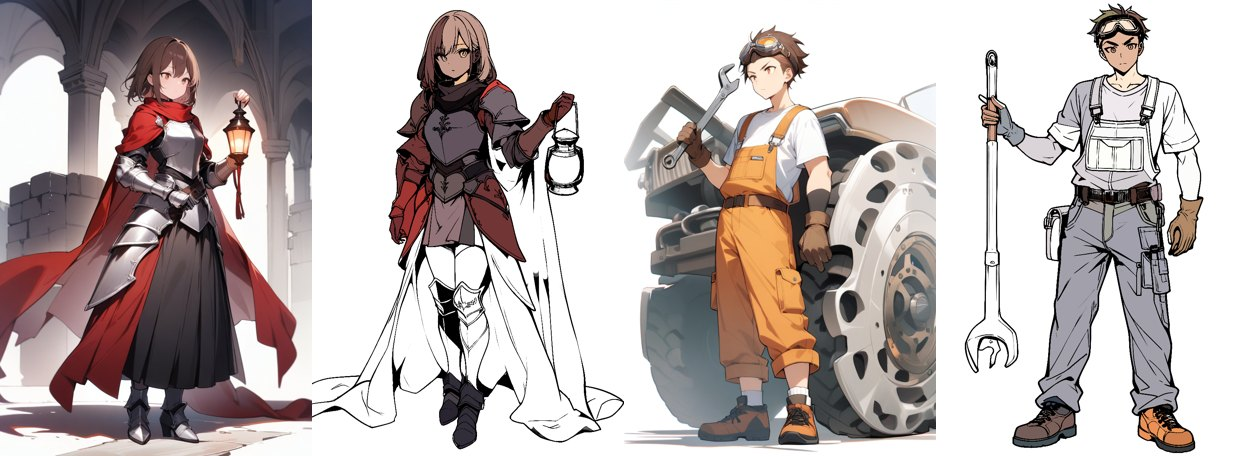
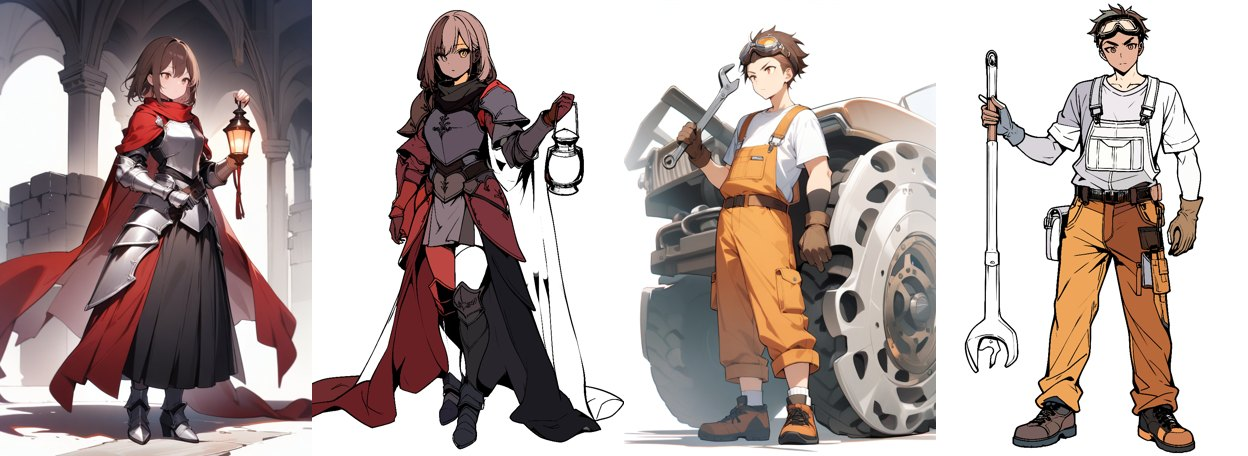
色を置くとき、部位の食い違いを仲間の部位で対応させ、実際にある色を取る
Claude-Session: https://claude.ai/code/session_01Raj3ZHMvaTdhHcmmGwa9QK

Changed region(s): [[0.25, 0.5219, 0.5, 0.9825], [0.8125, 0.3991, 0.9688, 0.9518], [0.375, 0.2456, 0.4062, 0.2763]]

diff --git a/tools/gen/lineart.py b/tools/gen/lineart.py
@@ -79,6 +79,13 @@ def flat_fill(line: np.ndarray, reference: np.ndarray, close: int = 1, min_area:
     return (out.astype(float) * lines).astype(np.uint8), int(n)
 
 
+def middle_color(pixels: np.ndarray) -> np.ndarray:
+    """画素の中で、明るさが真ん中の画素の色。赤・緑・青を別々に真ん中を取ると、白と橙が混ざった所で
+    どちらでもない灰色になった（技師の作業着）。実際にある色から選ぶ"""
+    lum = pixels.astype(float) @ np.array([0.299, 0.587, 0.114])
+    return pixels[np.argsort(lum)[len(lum) // 2]]
+
+
 def color_by_parts(line: np.ndarray, line_parts: np.ndarray, reference: np.ndarray, ref_parts: np.ndarray,
                    close: int = 1, min_area: int = 30, window: float = 0.06) -> np.ndarray:
     """線で閉じた面ごとに、参考の絵の「同じ部位の、同じあたり」の色を塗る。
@@ -95,14 +102,32 @@ def color_by_parts(line: np.ndarray, line_parts: np.ndarray, reference: np.ndarr
     H, W = line.shape
     yy, xx = np.mgrid[0:H, 0:W]
     out = np.full((H, W, 3), 255, np.uint8)
-    boxes, whole = {}, {}
+    # 同じ物でも、線画と参考で別の部位に分けられることがある（技師の作業着が線画では「ズボン」、参考では「ワンピース」。
+    # 参考では右の靴しか取れない）。同じ部位が参考に無いときは、仲間の部位（服どうし、左右どうし）から色を取る
+    groups = [(4, 5, 6, 7), (9, 10), (12, 13), (14, 15)]
+    boxes, whole, refmask = {}, {}, {}
     for k in np.unique(line_parts):
-        if k == 0 or not (ref_parts == k).any():
+        if k == 0:
+            continue
+        rm = ref_parts == k
+        # 参考に数画素だけある部位も無いと数える（技師の参考に「ズボン」が 204 画素だけあり、その灰色で作業着を塗った）
+        if rm.sum() <= 500:
+            g = next((g for g in groups if k in g), (k,))
+            # 仲間のうち、線画で使われていない部位を優先する（線画の「ズボン」と参考の「ワンピース」を組にする）。
+            # 仲間をまとめて使うと、白いシャツと橙の作業着が混ざった
+            # 線画に数画素だけある部位は使われていないと数える（技師の線画にワンピースが数画素あり、組が作れなかった）
+            spare = [j for j in g if (ref_parts == j).sum() > 500 and (line_parts == j).sum() <= 500]
+            if spare:
+                rm = ref_parts == max(spare, key=lambda j: (ref_parts == j).sum())
+            else:
+                rm = np.isin(ref_parts, g)
+        if not rm.any():
             continue
         ys, xs = np.nonzero(line_parts == k)
-        ry, rx = np.nonzero(ref_parts == k)
+        ry, rx = np.nonzero(rm)
         boxes[k] = ((ys.min(), ys.max(), xs.min(), xs.max()), (ry.min(), ry.max(), rx.min(), rx.max()))
-        whole[k] = np.median(reference[ref_parts == k], 0)
+        whole[k] = middle_color(reference[rm])
+        refmask[k] = rm
     objs = nd.find_objects(lab)
     for r in range(1, n + 1):
         if size[r] < min_area or objs[r - 1] is None:
@@ -119,8 +144,8 @@ def color_by_parts(line: np.ndarray, line_parts: np.ndarray, reference: np.ndarr
         tx = X0 + (cx - x0) / max(x1 - x0, 1) * (X1 - X0)
         ry, rx = max(int((Y1 - Y0) * window), 3), max(int((X1 - X0) * window), 3)
         a0, a1, b0, b1 = int(max(ty - ry, 0)), int(min(ty + ry + 1, H)), int(max(tx - rx, 0)), int(min(tx + rx + 1, W))
-        pick = ref_parts[a0:a1, b0:b1] == k
-        col = np.median(reference[a0:a1, b0:b1][pick], 0) if pick.sum() >= 5 else whole[k]
+        pick = refmask[k][a0:a1, b0:b1]
+        col = middle_color(reference[a0:a1, b0:b1][pick]) if pick.sum() >= 5 else whole[k]
         out[sl][m] = col
     filled = (lab > 0) & (size[lab] >= min_area)
     idx = nd.distance_transform_edt(~filled, return_distances=False, return_indices=True)

diff --git a/tests/test_lineart.py b/tests/test_lineart.py
@@ -77,5 +77,24 @@ class FlatFill(unittest.TestCase):
         self.assertEqual(tuple(out[50, 50]), (250, 220, 200))  # 顔の面には顔の色
 
 
+    def test_partner_part_when_missing_in_reference(self):
+        line = np.full((60, 60), 255, np.uint8)
+        line[30, :] = 0
+        line_parts = np.zeros((60, 60), np.uint8)
+        line_parts[:30] = 4                              # 線画: 上は上着
+        line_parts[31:] = 6                              # 下はズボン
+        ref = np.zeros((60, 60, 3), np.uint8)
+        ref_parts = np.zeros((60, 60), np.uint8)
+        ref[:30] = (240, 240, 240); ref_parts[:30] = 4   # 参考: 上着は白
+        ref[30:] = (220, 140, 70); ref_parts[30:] = 7    # 作業着は「ワンピース」に分けられ、ズボンが無い
+        ref_parts[59, :3] = 6                            # ズボンが数画素だけある
+        out = lineart.color_by_parts(line, line_parts, ref, ref_parts)
+        self.assertEqual(tuple(out[50, 50]), (220, 140, 70))   # ズボンの面にワンピースの色
+
+    def test_middle_color_is_a_real_color(self):
+        px = np.array([[255, 255, 255]] * 3 + [[220, 140, 70]] * 2, np.uint8)
+        self.assertIn(tuple(lineart.middle_color(px)), {(255, 255, 255), (220, 140, 70)})
+
+
 if __name__ == "__main__":
     unittest.main()

diff --git a/docs/knowledge/ai-drawing-notes.md b/docs/knowledge/ai-drawing-notes.md
@@ -22,6 +22,8 @@
 | 線画を下敷きに色を描かせる（強さ 0.6、0.75） | 線は残るが、白い地が勝って色がほとんど乗らない | lineart.md |
 | 線で閉じた面ごとに、参考の絵の色を1色塗る | 線は崩れず、はみ出さない。参考と位置がずれると、顔に髪の色が乗る | lineart.md |
 | 参考を線画と別に色付きで描かせ、部位分けで面と色を対応させる | 色がしっかり乗る（赤い籠手、手袋、帯、道具袋）。部位分けが線画と参考で食い違う所（マント、作業着、左右の靴）は色が外れる | lineart.md |
+| 部位分けの食い違いを、仲間の部位（服どうし、左右どうし）で対応させる。数画素だけの部位は無いと数える | 技師の作業着が橙に、騎士のマントが赤と黒になった。部位分けが同じ部位に入れたもの（作業着の胸当てとシャツ）は分けられない | lineart.md |
+| 色を赤・緑・青で別々に真ん中を取る | 白と橙が混ざる所で、どちらでもない灰色になる。実際にある画素から選ぶと起きない | lineart.md |
 | 塗った絵を部位分けで下塗りし、計算した影を置く | 元の絵の形と光が消え、汚くなる（使うのをやめた） | painting-workflow.md |
 | 鉛筆のラフを下敷きに色を描かせる（強さ 0.8） | 白黒のまま返る。0.93 にすると構えを残して色が乗る | app/PLAN.md |
 
